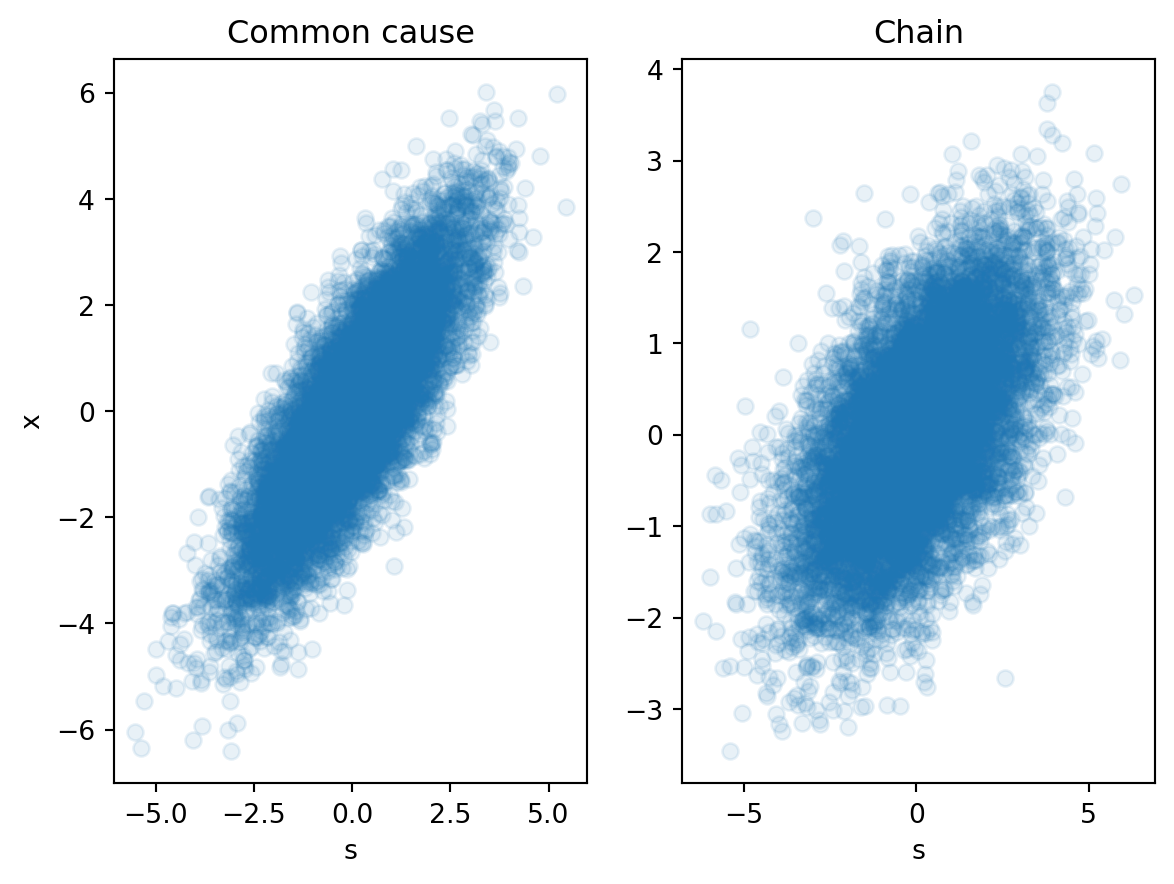
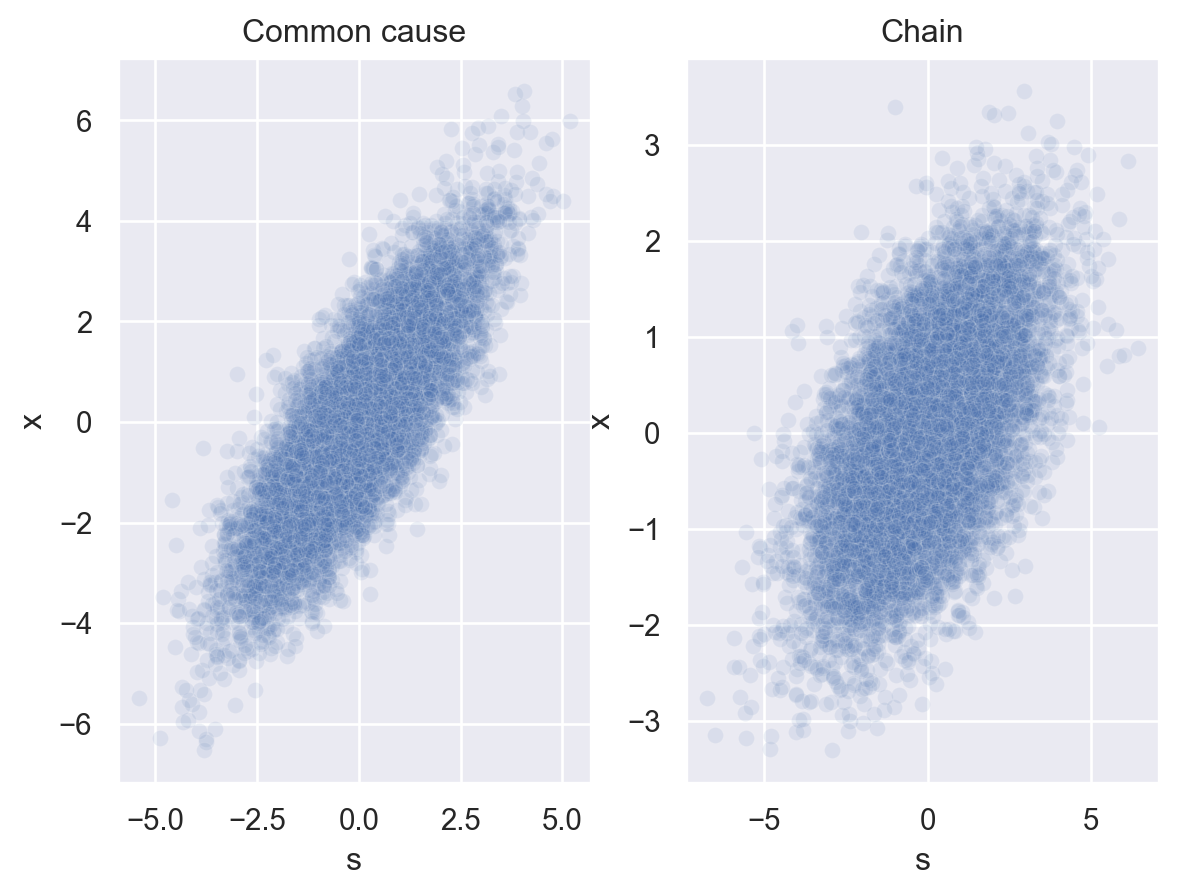
Revisions to Chapter 10

diff --git a/docs/10-causal-inference.html b/docs/10-causal-inference.html
@@ -246,7 +246,7 @@ gtag('config', 'G-HG2MG0W08W', { 'anonymize_ip': true});
 
 <header id="title-block-header" class="quarto-title-block default">
 <div class="quarto-title">
-<h1 class="title"><span class="chapter-number">10</span>&nbsp; <span class="chapter-title">Causal inference</span></h1>
+<h1 class="title"><span id="causal-inference" class="quarto-section-identifier"><span class="chapter-number">10</span>&nbsp; <span class="chapter-title">Causal inference</span></span></h1>
 </div>
 
 
@@ -264,11 +264,15 @@ gtag('config', 'G-HG2MG0W08W', { 'anonymize_ip': true});
 <p>The world is full of weird and interesting relationships. Like this one.</p>
 <div class="quarto-figure quarto-figure-center">
 <figure class="figure">
-<p><img src="images/10/maine_divorce_rate.png" class="img-fluid figure-img"></p>
-<figcaption class="figure-caption">Correlation between Maine divorce rates and per capita margarine consumption. Source: tylervigen.com.</figcaption>
+<p><img src="images/10/pikachu-puerto-rico.png" class="img-fluid figure-img" style="width:80.0%"></p>
+<figcaption class="figure-caption">Correlation between “surprised Pikachu” meme and number of middle school teachers in Puerto Rico. Source: tylervigen.com.</figcaption>
 </figure>
 </div>
-<p>Which of these weird relationships are <em>causal</em> relationships and how can we tell? (Does cutting back on margarine reduce your chances of divorce? Probably not.)</p>
+<p>Which of these weird relationships are <em>causal</em> relationships and how can we tell? Here’s an AI-generated explanation for why the rise in the meme’s popularity might be responsible for the uptick in teachers in Puerto Rico:</p>
+<blockquote class="blockquote">
+<p>As the ‘surprised Pikachu’ meme gained traction, it led to an uptick in internet usage. This surge in online activity put a higher demand on the telecommunication infrastructure in Puerto Rico. To meet this demand, more tech companies invested in the region, creating job opportunities. With the expanding job market, there was a need for additional educators to support the growing number of families relocating to Puerto Rico. As a result, the popularity of the meme indirectly contributed to an increase in the number of middle school teachers in Puerto Rico.</p>
+</blockquote>
+<p><img src="images/10/surprised pikachu.jpg" class="img-fluid" style="width:40.0%"></p>
 <p>Causal inference is, in fact, a major area of research in statistics and machine learning. But we’ll just focus on the question of how people decide what causes what.</p>
 <p>We’ll use a computational framework for making optimal probabilistic causal judgments called Bayesian networks, or <strong>Bayes nets</strong> for short. Comparing people’s judgments to Bayes net predictions allows us to see how optimal (or not) people are. Additionally, as we’ll see, Bayes nets are well suited for <em>intervention</em>, which is one way that people learn about causes.</p>
 <section id="bayes-nets" class="level2" data-number="10.1">
@@ -281,7 +285,7 @@ gtag('config', 'G-HG2MG0W08W', { 'anonymize_ip': true});
 <figcaption class="figure-caption">Bayes net representation of the coin bias problem.</figcaption>
 </figure>
 </div>
-<p>In Bayes nets, shaded notes represent variables that are known or observed, and unshaded nodes represent variables that are unknown. We know how many times the coin was flipped and came up heads, but we don’t directly know the bias <span class="math inline">\(\theta\)</span>.</p>
+<p>In Bayes nets, shaded nodes represent variables that are known or observed, and unshaded nodes represent variables that are unknown. We know how many times the coin was flipped and came up heads, but we don’t directly know the bias <span class="math inline">\(\theta\)</span>.</p>
 <p>We could extend this Bayes net to capture the <em>generalization</em> problem of predicting the outcome of the next coin flip <span class="math inline">\(x\)</span>.</p>
 <div class="quarto-figure quarto-figure-center">
 <figure class="figure">
@@ -341,20 +345,25 @@ gtag('config', 'G-HG2MG0W08W', { 'anonymize_ip': true});
 <p>Because <span class="math inline">\(z\)</span> represents an unknown variable, let’s plot just <span class="math inline">\(s\)</span> and <span class="math inline">\(x\)</span>.</p>
 <div class="cell" data-execution_count="2">
 <div class="sourceCode cell-code" id="cb2"><pre class="sourceCode python code-with-copy"><code class="sourceCode python"><span id="cb2-1"><a href="#cb2-1" aria-hidden="true" tabindex="-1"></a><span class="im">import</span> matplotlib.pyplot <span class="im">as</span> plt</span>
-<span id="cb2-2"><a href="#cb2-2" aria-hidden="true" tabindex="-1"></a></span>
-<span id="cb2-3"><a href="#cb2-3" aria-hidden="true" tabindex="-1"></a>fig, (ax1, ax2) <span class="op">=</span> plt.subplots(<span class="dv">1</span>,<span class="dv">2</span>)</span>
-<span id="cb2-4"><a href="#cb2-4" aria-hidden="true" tabindex="-1"></a>ax1.scatter(s_samples_cc, x_samples_cc, alpha <span class="op">=</span> <span class="fl">0.1</span>)</span>
-<span id="cb2-5"><a href="#cb2-5" aria-hidden="true" tabindex="-1"></a>ax1.set_xlabel(<span class="st">"s"</span>)</span>
-<span id="cb2-6"><a href="#cb2-6" aria-hidden="true" tabindex="-1"></a>ax1.set_ylabel(<span class="st">"x"</span>)</span>
-<span id="cb2-7"><a href="#cb2-7" aria-hidden="true" tabindex="-1"></a>ax1.set_title(<span class="st">"Common cause"</span>)</span>
-<span id="cb2-8"><a href="#cb2-8" aria-hidden="true" tabindex="-1"></a></span>
-<span id="cb2-9"><a href="#cb2-9" aria-hidden="true" tabindex="-1"></a>ax2.scatter(s_samples_chain, x_samples_chain, alpha <span class="op">=</span> <span class="fl">0.1</span>)</span>
-<span id="cb2-10"><a href="#cb2-10" aria-hidden="true" tabindex="-1"></a>ax2.set_xlabel(<span class="st">"s"</span>)</span>
-<span id="cb2-11"><a href="#cb2-11" aria-hidden="true" tabindex="-1"></a>ax2.set_title(<span class="st">"Chain"</span>)</span>
+<span id="cb2-2"><a href="#cb2-2" aria-hidden="true" tabindex="-1"></a><span class="im">import</span> seaborn <span class="im">as</span> sns</span>
+<span id="cb2-3"><a href="#cb2-3" aria-hidden="true" tabindex="-1"></a></span>
+<span id="cb2-4"><a href="#cb2-4" aria-hidden="true" tabindex="-1"></a>sns.set_theme()</span>
+<span id="cb2-5"><a href="#cb2-5" aria-hidden="true" tabindex="-1"></a></span>
+<span id="cb2-6"><a href="#cb2-6" aria-hidden="true" tabindex="-1"></a>fig, axes <span class="op">=</span> plt.subplots(<span class="dv">1</span>,<span class="dv">2</span>)</span>
+<span id="cb2-7"><a href="#cb2-7" aria-hidden="true" tabindex="-1"></a></span>
+<span id="cb2-8"><a href="#cb2-8" aria-hidden="true" tabindex="-1"></a>sns.scatterplot(x <span class="op">=</span> s_samples_cc, y <span class="op">=</span> x_samples_cc, alpha <span class="op">=</span> <span class="fl">0.1</span>, ax <span class="op">=</span> axes[<span class="dv">0</span>])</span>
+<span id="cb2-9"><a href="#cb2-9" aria-hidden="true" tabindex="-1"></a>axes[<span class="dv">0</span>].set_xlabel(<span class="st">"s"</span>)</span>
+<span id="cb2-10"><a href="#cb2-10" aria-hidden="true" tabindex="-1"></a>axes[<span class="dv">0</span>].set_ylabel(<span class="st">"x"</span>)</span>
+<span id="cb2-11"><a href="#cb2-11" aria-hidden="true" tabindex="-1"></a>axes[<span class="dv">0</span>].set_title(<span class="st">"Common cause"</span>)</span>
 <span id="cb2-12"><a href="#cb2-12" aria-hidden="true" tabindex="-1"></a></span>
-<span id="cb2-13"><a href="#cb2-13" aria-hidden="true" tabindex="-1"></a>plt.show()</span></code><button title="Copy to Clipboard" class="code-copy-button"><i class="bi"></i></button></pre></div>
+<span id="cb2-13"><a href="#cb2-13" aria-hidden="true" tabindex="-1"></a>sns.scatterplot(x <span class="op">=</span> s_samples_chain, y <span class="op">=</span> x_samples_chain, alpha <span class="op">=</span> <span class="fl">0.1</span>, ax <span class="op">=</span> axes[<span class="dv">1</span>])</span>
+<span id="cb2-14"><a href="#cb2-14" aria-hidden="true" tabindex="-1"></a>axes[<span class="dv">1</span>].set_xlabel(<span class="st">"s"</span>)</span>
+<span id="cb2-15"><a href="#cb2-15" aria-hidden="true" tabindex="-1"></a>axes[<span class="dv">1</span>].set_ylabel(<span class="st">"x"</span>)</span>
+<span id="cb2-16"><a href="#cb2-16" aria-hidden="true" tabindex="-1"></a>axes[<span class="dv">1</span>].set_title(<span class="st">"Chain"</span>)</span>
+<span id="cb2-17"><a href="#cb2-17" aria-hidden="true" tabindex="-1"></a></span>
+<span id="cb2-18"><a href="#cb2-18" aria-hidden="true" tabindex="-1"></a>plt.show()</span></code><button title="Copy to Clipboard" class="code-copy-button"><i class="bi"></i></button></pre></div>
 <div class="cell-output cell-output-display">
-<p><img src="10-causal-inference_files/figure-html/cell-3-output-1.png" width="587" height="442"></p>
+<p><img src="10-causal-inference_files/figure-html/cell-3-output-1.png" width="589" height="448"></p>
 </div>
 </div>
 <p>Clearly, the data isn’t identical in the two cases, but data generated by both Bayes nets results in a strong positive correlation between <span class="math inline">\(s\)</span> and <span class="math inline">\(x\)</span>.</p>
@@ -376,7 +385,7 @@ gtag('config', 'G-HG2MG0W08W', { 'anonymize_ip': true});
 <div class="quarto-figure quarto-figure-center">
 <figure class="figure">
 <p><img src="images/10/graph_surgery.png" class="img-fluid figure-img"></p>
-<figcaption class="figure-caption">Graph surgery applied to the common cause and chain Bayes nets. The invervention is indicated by the red arrow.</figcaption>
+<figcaption class="figure-caption">Graph surgery applied to the common cause and chain Bayes nets. The intervention is indicated by the red arrow.</figcaption>
 </figure>
 </div>
 <p>After intervening on sonin levels (<span class="math inline">\(s\)</span>), we remove the connection to <span class="math inline">\(s\)</span> in the common cause network, but no connections in the chain network. The resulting Bayes nets show why we should expect to see a resulting change in xanthan for the chain, but not the common cause.</p>
@@ -441,8 +450,8 @@ gtag('config', 'G-HG2MG0W08W', { 'anonymize_ip': true});
 <p>Maybe people reason about these problems by performing a kind of model selection between the two Bayes nets below.</p>
 <div class="quarto-figure quarto-figure-center">
 <figure class="figure">
-<p><img src="images/10/griffiths_tenenbaum_graphs.png" class="img-fluid figure-img"></p>
-<figcaption class="figure-caption">Causal inference as model selection. In one model, there is a connection from the potential cause to the effect; in the other, the two variables are unconnected. (Image from Griffiths &amp; Tenenbaum (2005).)</figcaption>
+<p><img src="images/10/griffiths_tenenbaum_graphs.png" class="img-fluid figure-img" style="width:75.0%"></p>
+<figcaption class="figure-caption">Causal inference as model selection. In one model, there is a connection from the potential cause to the effect; in the other, the two variables are unconnected. Image from Griffiths &amp; Tenenbaum (2005).</figcaption>
 </figure>
 </div>
 <p>These Bayes nets each have three variables: an effect <span class="math inline">\(E\)</span>, a cause <span class="math inline">\(C\)</span>, and a background cause <span class="math inline">\(B\)</span>. For our problem, the effect and cause refer to the gene and the drug. The inclusion of the background cause is to account for unknown factors that might cause the gene to be expressed without the drug.</p>
@@ -469,88 +478,91 @@ P(D | w_0, w_1, \text{Graph } 1) = \prod_{e,c} P(e|b^+,c; w_o, w_1)^{N(e,c)}
 <p>Here’s a function to compute this.</p>
 <div class="cell" data-execution_count="3">
 <div class="sourceCode cell-code" id="cb3"><pre class="sourceCode python code-with-copy"><code class="sourceCode python"><span id="cb3-1"><a href="#cb3-1" aria-hidden="true" tabindex="-1"></a><span class="kw">def</span> compute_likelihood(data, w0, w1, graph):</span>
-<span id="cb3-2"><a href="#cb3-2" aria-hidden="true" tabindex="-1"></a>  <span class="co">'''Returns likelihood of data for a given graph</span></span>
-<span id="cb3-3"><a href="#cb3-3" aria-hidden="true" tabindex="-1"></a><span class="co">     </span></span>
-<span id="cb3-4"><a href="#cb3-4" aria-hidden="true" tabindex="-1"></a><span class="co">     Parameters:</span></span>
-<span id="cb3-5"><a href="#cb3-5" aria-hidden="true" tabindex="-1"></a><span class="co">       data (list): observation counts in this order:</span></span>
-<span id="cb3-6"><a href="#cb3-6" aria-hidden="true" tabindex="-1"></a><span class="co">         N(c-,e-), N(c-,e+), N(c+,e-), N(c+,e+)</span></span>
-<span id="cb3-7"><a href="#cb3-7" aria-hidden="true" tabindex="-1"></a><span class="co">       w0 (float): probability of background cause producing effect</span></span>
-<span id="cb3-8"><a href="#cb3-8" aria-hidden="true" tabindex="-1"></a><span class="co">       w1 (float): probability of cause of interest producing effect</span></span>
-<span id="cb3-9"><a href="#cb3-9" aria-hidden="true" tabindex="-1"></a><span class="co">       graph (int): 0 (Graph 0) or 1 (Graph 1)</span></span>
-<span id="cb3-10"><a href="#cb3-10" aria-hidden="true" tabindex="-1"></a></span>
-<span id="cb3-11"><a href="#cb3-11" aria-hidden="true" tabindex="-1"></a><span class="co">     Returns:</span></span>
-<span id="cb3-12"><a href="#cb3-12" aria-hidden="true" tabindex="-1"></a><span class="co">       (float): probability of data</span></span>
-<span id="cb3-13"><a href="#cb3-13" aria-hidden="true" tabindex="-1"></a><span class="co">  '''</span></span>
-<span id="cb3-14"><a href="#cb3-14" aria-hidden="true" tabindex="-1"></a>  </span>
-<span id="cb3-15"><a href="#cb3-15" aria-hidden="true" tabindex="-1"></a>  <span class="cf">if</span> graph <span class="op">==</span> <span class="dv">0</span>:</span>
-<span id="cb3-16"><a href="#cb3-16" aria-hidden="true" tabindex="-1"></a>    <span class="co"># e-</span></span>
-<span id="cb3-17"><a href="#cb3-17" aria-hidden="true" tabindex="-1"></a>    p <span class="op">=</span> (<span class="dv">1</span><span class="op">-</span>w0)<span class="op">**</span>(data[<span class="dv">0</span>]<span class="op">+</span>data[<span class="dv">2</span>])</span>
-<span id="cb3-18"><a href="#cb3-18" aria-hidden="true" tabindex="-1"></a>    <span class="co"># e+</span></span>
-<span id="cb3-19"><a href="#cb3-19" aria-hidden="true" tabindex="-1"></a>    p <span class="op">=</span> p <span class="op">*</span> w0<span class="op">**</span>(data[<span class="dv">1</span>]<span class="op">+</span>data[<span class="dv">3</span>])</span>
-<span id="cb3-20"><a href="#cb3-20" aria-hidden="true" tabindex="-1"></a>  <span class="cf">elif</span> graph <span class="op">==</span> <span class="dv">1</span>:</span>
-<span id="cb3-21"><a href="#cb3-21" aria-hidden="true" tabindex="-1"></a>    <span class="co"># c-, e-</span></span>
-<span id="cb3-22"><a href="#cb3-22" aria-hidden="true" tabindex="-1"></a>    p <span class="op">=</span> (<span class="dv">1</span><span class="op">-</span>w0)<span class="op">**</span>data[<span class="dv">0</span>]</span>
-<span id="cb3-23"><a href="#cb3-23" aria-hidden="true" tabindex="-1"></a>    <span class="co"># c-, e+</span></span>
-<span id="cb3-24"><a href="#cb3-24" aria-hidden="true" tabindex="-1"></a>    p <span class="op">=</span> p <span class="op">*</span> w0<span class="op">**</span>data[<span class="dv">1</span>]</span>
-<span id="cb3-25"><a href="#cb3-25" aria-hidden="true" tabindex="-1"></a>    <span class="co"># c+, e-</span></span>
-<span id="cb3-26"><a href="#cb3-26" aria-hidden="true" tabindex="-1"></a>    p <span class="op">=</span> p <span class="op">*</span> (<span class="dv">1</span> <span class="op">-</span> (w0 <span class="op">+</span> w1 <span class="op">-</span> w0<span class="op">*</span>w1))<span class="op">**</span>data[<span class="dv">2</span>]</span>
-<span id="cb3-27"><a href="#cb3-27" aria-hidden="true" tabindex="-1"></a>    <span class="co"># c+, e+</span></span>
-<span id="cb3-28"><a href="#cb3-28" aria-hidden="true" tabindex="-1"></a>    p <span class="op">=</span> p <span class="op">*</span> (w0 <span class="op">+</span> w1 <span class="op">-</span> w0<span class="op">*</span>w1)<span class="op">**</span>data[<span class="dv">3</span>]</span>
-<span id="cb3-29"><a href="#cb3-29" aria-hidden="true" tabindex="-1"></a>  <span class="cf">else</span>:</span>
-<span id="cb3-30"><a href="#cb3-30" aria-hidden="true" tabindex="-1"></a>    <span class="co"># error!</span></span>
-<span id="cb3-31"><a href="#cb3-31" aria-hidden="true" tabindex="-1"></a>    <span class="cf">return</span>(<span class="dv">0</span>)</span>
-<span id="cb3-32"><a href="#cb3-32" aria-hidden="true" tabindex="-1"></a>  </span>
-<span id="cb3-33"><a href="#cb3-33" aria-hidden="true" tabindex="-1"></a>  <span class="cf">return</span>(p)</span></code><button title="Copy to Clipboard" class="code-copy-button"><i class="bi"></i></button></pre></div>
+<span id="cb3-2"><a href="#cb3-2" aria-hidden="true" tabindex="-1"></a>  <span class="co">'''</span></span>
+<span id="cb3-3"><a href="#cb3-3" aria-hidden="true" tabindex="-1"></a><span class="co">  Computes likelihood of data for a given graph</span></span>
+<span id="cb3-4"><a href="#cb3-4" aria-hidden="true" tabindex="-1"></a><span class="co">     </span></span>
+<span id="cb3-5"><a href="#cb3-5" aria-hidden="true" tabindex="-1"></a><span class="co">  Args:</span></span>
+<span id="cb3-6"><a href="#cb3-6" aria-hidden="true" tabindex="-1"></a><span class="co">    data (list): observation counts in this order:</span></span>
+<span id="cb3-7"><a href="#cb3-7" aria-hidden="true" tabindex="-1"></a><span class="co">      N(c-,e-), N(c-,e+), N(c+,e-), N(c+,e+)</span></span>
+<span id="cb3-8"><a href="#cb3-8" aria-hidden="true" tabindex="-1"></a><span class="co">    w0 (float): probability of background cause producing effect</span></span>
+<span id="cb3-9"><a href="#cb3-9" aria-hidden="true" tabindex="-1"></a><span class="co">    w1 (float): probability of cause of interest producing effect</span></span>
+<span id="cb3-10"><a href="#cb3-10" aria-hidden="true" tabindex="-1"></a><span class="co">      graph (int): 0 (Graph 0) or 1 (Graph 1)</span></span>
+<span id="cb3-11"><a href="#cb3-11" aria-hidden="true" tabindex="-1"></a></span>
+<span id="cb3-12"><a href="#cb3-12" aria-hidden="true" tabindex="-1"></a><span class="co">    Returns:</span></span>
+<span id="cb3-13"><a href="#cb3-13" aria-hidden="true" tabindex="-1"></a><span class="co">      (float): probability of data </span></span>
+<span id="cb3-14"><a href="#cb3-14" aria-hidden="true" tabindex="-1"></a><span class="co">  '''</span></span>
+<span id="cb3-15"><a href="#cb3-15" aria-hidden="true" tabindex="-1"></a>  </span>
+<span id="cb3-16"><a href="#cb3-16" aria-hidden="true" tabindex="-1"></a>  <span class="cf">if</span> graph <span class="op">==</span> <span class="dv">0</span>:</span>
+<span id="cb3-17"><a href="#cb3-17" aria-hidden="true" tabindex="-1"></a>    <span class="co"># e-</span></span>
+<span id="cb3-18"><a href="#cb3-18" aria-hidden="true" tabindex="-1"></a>    p <span class="op">=</span> (<span class="dv">1</span><span class="op">-</span>w0)<span class="op">**</span>(data[<span class="dv">0</span>]<span class="op">+</span>data[<span class="dv">2</span>])</span>
+<span id="cb3-19"><a href="#cb3-19" aria-hidden="true" tabindex="-1"></a>    <span class="co"># e+</span></span>
+<span id="cb3-20"><a href="#cb3-20" aria-hidden="true" tabindex="-1"></a>    p <span class="op">=</span> p <span class="op">*</span> w0<span class="op">**</span>(data[<span class="dv">1</span>]<span class="op">+</span>data[<span class="dv">3</span>])</span>
+<span id="cb3-21"><a href="#cb3-21" aria-hidden="true" tabindex="-1"></a>  <span class="cf">elif</span> graph <span class="op">==</span> <span class="dv">1</span>:</span>
+<span id="cb3-22"><a href="#cb3-22" aria-hidden="true" tabindex="-1"></a>    <span class="co"># c-, e-</span></span>
+<span id="cb3-23"><a href="#cb3-23" aria-hidden="true" tabindex="-1"></a>    p <span class="op">=</span> (<span class="dv">1</span><span class="op">-</span>w0)<span class="op">**</span>data[<span class="dv">0</span>]</span>
+<span id="cb3-24"><a href="#cb3-24" aria-hidden="true" tabindex="-1"></a>    <span class="co"># c-, e+</span></span>
+<span id="cb3-25"><a href="#cb3-25" aria-hidden="true" tabindex="-1"></a>    p <span class="op">=</span> p <span class="op">*</span> w0<span class="op">**</span>data[<span class="dv">1</span>]</span>
+<span id="cb3-26"><a href="#cb3-26" aria-hidden="true" tabindex="-1"></a>    <span class="co"># c+, e-</span></span>
+<span id="cb3-27"><a href="#cb3-27" aria-hidden="true" tabindex="-1"></a>    p <span class="op">=</span> p <span class="op">*</span> (<span class="dv">1</span> <span class="op">-</span> (w0 <span class="op">+</span> w1 <span class="op">-</span> w0<span class="op">*</span>w1))<span class="op">**</span>data[<span class="dv">2</span>]</span>
+<span id="cb3-28"><a href="#cb3-28" aria-hidden="true" tabindex="-1"></a>    <span class="co"># c+, e+</span></span>
+<span id="cb3-29"><a href="#cb3-29" aria-hidden="true" tabindex="-1"></a>    p <span class="op">=</span> p <span class="op">*</span> (w0 <span class="op">+</span> w1 <span class="op">-</span> w0<span class="op">*</span>w1)<span class="op">**</span>data[<span class="dv">3</span>]</span>
+<span id="cb3-30"><a href="#cb3-30" aria-hidden="true" tabindex="-1"></a>  <span class="cf">else</span>:</span>
+<span id="cb3-31"><a href="#cb3-31" aria-hidden="true" tabindex="-1"></a>    <span class="co"># error!</span></span>
+<span id="cb3-32"><a href="#cb3-32" aria-hidden="true" tabindex="-1"></a>    <span class="cf">return</span>(<span class="dv">0</span>)</span>
+<span id="cb3-33"><a href="#cb3-33" aria-hidden="true" tabindex="-1"></a>  </span>
+<span id="cb3-34"><a href="#cb3-34" aria-hidden="true" tabindex="-1"></a>  <span class="cf">return</span>(p)</span></code><button title="Copy to Clipboard" class="code-copy-button"><i class="bi"></i></button></pre></div>
 </div>
 <p>Causal support doesn’t actually depend directly on the parameters <span class="math inline">\(w_0\)</span> and <span class="math inline">\(w_1\)</span>. The reason is that we ultimately don’t care what the values of these parameters are because we just want to draw an inference at a higher level about the best-fitting Bayes net.</p>
 <p>Mathematically speaking, <span class="math inline">\(w_0\)</span> and <span class="math inline">\(w_1\)</span> are averaged out of the model, an idea we first saw in <a href="03-generalization.html#generalizing">Chapter 3</a>. We can accomplish this using Monte Carlo approximation, introduced in <a href="08-social-cognition.html#monte-carlo">Chapter 8</a>.</p>
 <div class="cell" data-execution_count="4">
 <div class="sourceCode cell-code" id="cb4"><pre class="sourceCode python code-with-copy"><code class="sourceCode python"><span id="cb4-1"><a href="#cb4-1" aria-hidden="true" tabindex="-1"></a><span class="kw">def</span> estimate_likelihood(graph_number, data): </span>
-<span id="cb4-2"><a href="#cb4-2" aria-hidden="true" tabindex="-1"></a>  <span class="co">'''Returns an estimate of the probability of observing the data</span></span>
-<span id="cb4-3"><a href="#cb4-3" aria-hidden="true" tabindex="-1"></a><span class="co">     under the specified graph using Monte Carlo estimation.</span></span>
-<span id="cb4-4"><a href="#cb4-4" aria-hidden="true" tabindex="-1"></a><span class="co">     </span></span>
-<span id="cb4-5"><a href="#cb4-5" aria-hidden="true" tabindex="-1"></a><span class="co">     Parameters:</span></span>
-<span id="cb4-6"><a href="#cb4-6" aria-hidden="true" tabindex="-1"></a><span class="co">       graph_number (int): either 0 (Graph 0) or 1 (Graph 1)</span></span>
-<span id="cb4-7"><a href="#cb4-7" aria-hidden="true" tabindex="-1"></a><span class="co">       data (list): observation counts in this order:</span></span>
-<span id="cb4-8"><a href="#cb4-8" aria-hidden="true" tabindex="-1"></a><span class="co">         N(c-,e-), N(c-,e+), N(c+,e-), N(c+,e+)</span></span>
-<span id="cb4-9"><a href="#cb4-9" aria-hidden="true" tabindex="-1"></a></span>
-<span id="cb4-10"><a href="#cb4-10" aria-hidden="true" tabindex="-1"></a><span class="co">     Returns:</span></span>
-<span id="cb4-11"><a href="#cb4-11" aria-hidden="true" tabindex="-1"></a><span class="co">       (float): probability of observing data</span></span>
-<span id="cb4-12"><a href="#cb4-12" aria-hidden="true" tabindex="-1"></a><span class="co">  '''</span></span>
-<span id="cb4-13"><a href="#cb4-13" aria-hidden="true" tabindex="-1"></a>  <span class="im">from</span> numpy.random <span class="im">import</span> default_rng</span>
-<span id="cb4-14"><a href="#cb4-14" aria-hidden="true" tabindex="-1"></a>  </span>
-<span id="cb4-15"><a href="#cb4-15" aria-hidden="true" tabindex="-1"></a>  n_samples <span class="op">=</span> <span class="dv">5000</span></span>
-<span id="cb4-16"><a href="#cb4-16" aria-hidden="true" tabindex="-1"></a>  rng <span class="op">=</span> default_rng(<span class="dv">2022</span>)</span>
-<span id="cb4-17"><a href="#cb4-17" aria-hidden="true" tabindex="-1"></a>  mc_samples <span class="op">=</span> np.zeros(n_samples)</span>
-<span id="cb4-18"><a href="#cb4-18" aria-hidden="true" tabindex="-1"></a>  </span>
-<span id="cb4-19"><a href="#cb4-19" aria-hidden="true" tabindex="-1"></a>  <span class="cf">for</span> i <span class="kw">in</span> <span class="bu">range</span>(n_samples):</span>
-<span id="cb4-20"><a href="#cb4-20" aria-hidden="true" tabindex="-1"></a>    <span class="co"># Sample values for w0 and w1 from a uniform distribution</span></span>
-<span id="cb4-21"><a href="#cb4-21" aria-hidden="true" tabindex="-1"></a>    w0 <span class="op">=</span> rng.random()</span>
-<span id="cb4-22"><a href="#cb4-22" aria-hidden="true" tabindex="-1"></a>    w1 <span class="op">=</span> rng.random()</span>
-<span id="cb4-23"><a href="#cb4-23" aria-hidden="true" tabindex="-1"></a>    </span>
-<span id="cb4-24"><a href="#cb4-24" aria-hidden="true" tabindex="-1"></a>    mc_samples[i] <span class="op">=</span> compute_likelihood(data, w0, w1, graph_number)</span>
-<span id="cb4-25"><a href="#cb4-25" aria-hidden="true" tabindex="-1"></a>  </span>
-<span id="cb4-26"><a href="#cb4-26" aria-hidden="true" tabindex="-1"></a>  <span class="cf">return</span>(<span class="dv">1</span><span class="op">/</span>n_samples <span class="op">*</span> np.<span class="bu">sum</span>(mc_samples))</span></code><button title="Copy to Clipboard" class="code-copy-button"><i class="bi"></i></button></pre></div>
+<span id="cb4-2"><a href="#cb4-2" aria-hidden="true" tabindex="-1"></a>  <span class="co">'''</span></span>
+<span id="cb4-3"><a href="#cb4-3" aria-hidden="true" tabindex="-1"></a><span class="co">  Returns an estimate of the probability of observing the data</span></span>
+<span id="cb4-4"><a href="#cb4-4" aria-hidden="true" tabindex="-1"></a><span class="co">    under the specified graph using Monte Carlo estimation.</span></span>
+<span id="cb4-5"><a href="#cb4-5" aria-hidden="true" tabindex="-1"></a><span class="co">     </span></span>
+<span id="cb4-6"><a href="#cb4-6" aria-hidden="true" tabindex="-1"></a><span class="co">  Args:</span></span>
+<span id="cb4-7"><a href="#cb4-7" aria-hidden="true" tabindex="-1"></a><span class="co">    graph_number (int): either 0 (Graph 0) or 1 (Graph 1)</span></span>
+<span id="cb4-8"><a href="#cb4-8" aria-hidden="true" tabindex="-1"></a><span class="co">    data (list): observation counts in this order:</span></span>
+<span id="cb4-9"><a href="#cb4-9" aria-hidden="true" tabindex="-1"></a><span class="co">      N(c-,e-), N(c-,e+), N(c+,e-), N(c+,e+)</span></span>
+<span id="cb4-10"><a href="#cb4-10" aria-hidden="true" tabindex="-1"></a></span>
+<span id="cb4-11"><a href="#cb4-11" aria-hidden="true" tabindex="-1"></a><span class="co">  Returns:</span></span>
+<span id="cb4-12"><a href="#cb4-12" aria-hidden="true" tabindex="-1"></a><span class="co">    (float): probability of observing data</span></span>
+<span id="cb4-13"><a href="#cb4-13" aria-hidden="true" tabindex="-1"></a><span class="co">  '''</span></span>
+<span id="cb4-14"><a href="#cb4-14" aria-hidden="true" tabindex="-1"></a>  <span class="im">from</span> numpy.random <span class="im">import</span> default_rng</span>
+<span id="cb4-15"><a href="#cb4-15" aria-hidden="true" tabindex="-1"></a>  </span>
+<span id="cb4-16"><a href="#cb4-16" aria-hidden="true" tabindex="-1"></a>  n_samples <span class="op">=</span> <span class="dv">5000</span></span>
+<span id="cb4-17"><a href="#cb4-17" aria-hidden="true" tabindex="-1"></a>  rng <span class="op">=</span> default_rng(<span class="dv">2022</span>)</span>
+<span id="cb4-18"><a href="#cb4-18" aria-hidden="true" tabindex="-1"></a>  mc_samples <span class="op">=</span> np.zeros(n_samples)</span>
+<span id="cb4-19"><a href="#cb4-19" aria-hidden="true" tabindex="-1"></a>  </span>
+<span id="cb4-20"><a href="#cb4-20" aria-hidden="true" tabindex="-1"></a>  <span class="cf">for</span> i <span class="kw">in</span> <span class="bu">range</span>(n_samples):</span>
+<span id="cb4-21"><a href="#cb4-21" aria-hidden="true" tabindex="-1"></a>    <span class="co"># Sample values for w0 and w1 from a uniform distribution</span></span>
+<span id="cb4-22"><a href="#cb4-22" aria-hidden="true" tabindex="-1"></a>    w0 <span class="op">=</span> rng.random()</span>
+<span id="cb4-23"><a href="#cb4-23" aria-hidden="true" tabindex="-1"></a>    w1 <span class="op">=</span> rng.random()</span>
+<span id="cb4-24"><a href="#cb4-24" aria-hidden="true" tabindex="-1"></a>    </span>
+<span id="cb4-25"><a href="#cb4-25" aria-hidden="true" tabindex="-1"></a>    mc_samples[i] <span class="op">=</span> compute_likelihood(data, w0, w1, graph_number)</span>
+<span id="cb4-26"><a href="#cb4-26" aria-hidden="true" tabindex="-1"></a>  </span>
+<span id="cb4-27"><a href="#cb4-27" aria-hidden="true" tabindex="-1"></a>  <span class="cf">return</span>(<span class="dv">1</span><span class="op">/</span>n_samples <span class="op">*</span> np.<span class="bu">sum</span>(mc_samples))</span></code><button title="Copy to Clipboard" class="code-copy-button"><i class="bi"></i></button></pre></div>
 </div>
 <p>Finally, let’s put it all together by writing a function that computes causal support.</p>
 <div class="cell" data-execution_count="5">
 <div class="sourceCode cell-code" id="cb5"><pre class="sourceCode python code-with-copy"><code class="sourceCode python"><span id="cb5-1"><a href="#cb5-1" aria-hidden="true" tabindex="-1"></a><span class="kw">def</span> causal_support(data):</span>
-<span id="cb5-2"><a href="#cb5-2" aria-hidden="true" tabindex="-1"></a>  <span class="co">'''Returns a causal support value for a given data set.</span></span>
-<span id="cb5-3"><a href="#cb5-3" aria-hidden="true" tabindex="-1"></a><span class="co">     Causal support is a measure of how strongly a data</span></span>
-<span id="cb5-4"><a href="#cb5-4" aria-hidden="true" tabindex="-1"></a><span class="co">     set indicates that there is evidence for a causal</span></span>
-<span id="cb5-5"><a href="#cb5-5" aria-hidden="true" tabindex="-1"></a><span class="co">     effect.</span></span>
-<span id="cb5-6"><a href="#cb5-6" aria-hidden="true" tabindex="-1"></a><span class="co">     </span></span>
-<span id="cb5-7"><a href="#cb5-7" aria-hidden="true" tabindex="-1"></a><span class="co">     Parameters:</span></span>
-<span id="cb5-8"><a href="#cb5-8" aria-hidden="true" tabindex="-1"></a><span class="co">       data (list): observation counts in this order:</span></span>
-<span id="cb5-9"><a href="#cb5-9" aria-hidden="true" tabindex="-1"></a><span class="co">         N(c-,e-), N(c-,e+), N(c+,e-), N(c+,e+)</span></span>
-<span id="cb5-10"><a href="#cb5-10" aria-hidden="true" tabindex="-1"></a></span>
-<span id="cb5-11"><a href="#cb5-11" aria-hidden="true" tabindex="-1"></a><span class="co">     Returns:</span></span>
-<span id="cb5-12"><a href="#cb5-12" aria-hidden="true" tabindex="-1"></a><span class="co">       (float): strength of evidence for causal relationship</span></span>
-<span id="cb5-13"><a href="#cb5-13" aria-hidden="true" tabindex="-1"></a><span class="co">  '''</span></span>
-<span id="cb5-14"><a href="#cb5-14" aria-hidden="true" tabindex="-1"></a>  <span class="im">import</span> numpy <span class="im">as</span> np</span>
-<span id="cb5-15"><a href="#cb5-15" aria-hidden="true" tabindex="-1"></a>  </span>
-<span id="cb5-16"><a href="#cb5-16" aria-hidden="true" tabindex="-1"></a>  <span class="cf">return</span> (np.log(estimate_likelihood(<span class="dv">1</span>,data<span class="op">=</span>data) <span class="op">/</span> </span>
-<span id="cb5-17"><a href="#cb5-17" aria-hidden="true" tabindex="-1"></a>                 estimate_likelihood(<span class="dv">0</span>,data<span class="op">=</span>data)))</span></code><button title="Copy to Clipboard" class="code-copy-button"><i class="bi"></i></button></pre></div>
+<span id="cb5-2"><a href="#cb5-2" aria-hidden="true" tabindex="-1"></a>  <span class="co">'''</span></span>
+<span id="cb5-3"><a href="#cb5-3" aria-hidden="true" tabindex="-1"></a><span class="co">  Returns a causal support value for a given data set.</span></span>
+<span id="cb5-4"><a href="#cb5-4" aria-hidden="true" tabindex="-1"></a><span class="co">  Causal support is a measure of how strongly a data</span></span>
+<span id="cb5-5"><a href="#cb5-5" aria-hidden="true" tabindex="-1"></a><span class="co">  set indicates that there is evidence for a causal</span></span>
+<span id="cb5-6"><a href="#cb5-6" aria-hidden="true" tabindex="-1"></a><span class="co">  effect.</span></span>
+<span id="cb5-7"><a href="#cb5-7" aria-hidden="true" tabindex="-1"></a><span class="co">     </span></span>
+<span id="cb5-8"><a href="#cb5-8" aria-hidden="true" tabindex="-1"></a><span class="co">  Parameters:</span></span>
+<span id="cb5-9"><a href="#cb5-9" aria-hidden="true" tabindex="-1"></a><span class="co">   data (list): observation counts in this order:</span></span>
+<span id="cb5-10"><a href="#cb5-10" aria-hidden="true" tabindex="-1"></a><span class="co">    N(c-,e-), N(c-,e+), N(c+,e-), N(c+,e+)</span></span>
+<span id="cb5-11"><a href="#cb5-11" aria-hidden="true" tabindex="-1"></a></span>
+<span id="cb5-12"><a href="#cb5-12" aria-hidden="true" tabindex="-1"></a><span class="co">  Returns:</span></span>
+<span id="cb5-13"><a href="#cb5-13" aria-hidden="true" tabindex="-1"></a><span class="co">    (float): strength of evidence for causal relationship</span></span>
+<span id="cb5-14"><a href="#cb5-14" aria-hidden="true" tabindex="-1"></a><span class="co">  '''</span></span>
+<span id="cb5-15"><a href="#cb5-15" aria-hidden="true" tabindex="-1"></a>  <span class="im">import</span> numpy <span class="im">as</span> np</span>
+<span id="cb5-16"><a href="#cb5-16" aria-hidden="true" tabindex="-1"></a>  </span>
+<span id="cb5-17"><a href="#cb5-17" aria-hidden="true" tabindex="-1"></a>  <span class="cf">return</span> (np.log(estimate_likelihood(<span class="dv">1</span>,data<span class="op">=</span>data) <span class="op">/</span> </span>
+<span id="cb5-18"><a href="#cb5-18" aria-hidden="true" tabindex="-1"></a>                 estimate_likelihood(<span class="dv">0</span>,data<span class="op">=</span>data)))</span></code><button title="Copy to Clipboard" class="code-copy-button"><i class="bi"></i></button></pre></div>
 </div>
 <p>Now let’s see what the model predicts for the <a href="#structure-strength">four cases we considered earlier</a>.</p>
 <div class="cell" data-execution_count="6">
@@ -561,13 +573,13 @@ P(D | w_0, w_1, \text{Graph } 1) = \prod_{e,c} P(e|b^+,c; w_o, w_1)^{N(e,c)}
 <span id="cb6-5"><a href="#cb6-5" aria-hidden="true" tabindex="-1"></a>                              </span>
 <span id="cb6-6"><a href="#cb6-6" aria-hidden="true" tabindex="-1"></a>labels <span class="op">=</span> [<span class="st">"6/8, 8/8"</span>, <span class="st">"4/8, 6/8"</span>, <span class="st">"2/8, 4/8"</span>, <span class="st">"0/8, 2/8"</span>]</span>
 <span id="cb6-7"><a href="#cb6-7" aria-hidden="true" tabindex="-1"></a>fig, ax <span class="op">=</span> plt.subplots()</span>
-<span id="cb6-8"><a href="#cb6-8" aria-hidden="true" tabindex="-1"></a>ax.bar(labels, causal_support_predictions)</span>
+<span id="cb6-8"><a href="#cb6-8" aria-hidden="true" tabindex="-1"></a>sns.barplot(x<span class="op">=</span>labels, y<span class="op">=</span>causal_support_predictions)</span>
 <span id="cb6-9"><a href="#cb6-9" aria-hidden="true" tabindex="-1"></a>ax.set_xlabel(<span class="st">"Data"</span>)</span>
 <span id="cb6-10"><a href="#cb6-10" aria-hidden="true" tabindex="-1"></a>ax.set_ylabel(<span class="st">"Model prediction"</span>)</span>
 <span id="cb6-11"><a href="#cb6-11" aria-hidden="true" tabindex="-1"></a></span>
 <span id="cb6-12"><a href="#cb6-12" aria-hidden="true" tabindex="-1"></a>plt.show()</span></code><button title="Copy to Clipboard" class="code-copy-button"><i class="bi"></i></button></pre></div>
 <div class="cell-output cell-output-display">
-<p><img src="10-causal-inference_files/figure-html/cell-7-output-1.png" width="589" height="422"></p>
+<p><img src="10-causal-inference_files/figure-html/cell-7-output-1.png" width="593" height="428"></p>
 </div>
 </div>
 <p>The labels on the x-axis indicate the control condition counts, followed by the experimental condition counts.</p>

diff --git a/docs/03-generalization.html b/docs/03-generalization.html
@@ -400,7 +400,7 @@ Horses have blicketitis</code></pre>
 <p><span class="math display">\[
 P(h) \propto \frac{1}{\phi^k}
 \]</span> where <span class="math inline">\(k\)</span> is the number of clusters in <span class="math inline">\(h\)</span>. <span class="math inline">\(\phi\)</span> is a parameter that we can choose. As long as <span class="math inline">\(\phi &gt; 1\)</span>, <span class="math inline">\(P(h)\)</span> will be smaller for hypotheses consisting of more clusters. This has the effect of assigning higher weight to “simpler” hypotheses.</p>
-<p>Once again, we will make the <a href="06-sampling-assumptions.html#sampling-assumptions">strong sampling assumption</a> for the likelihood. This time, <span class="math inline">\(|h|\)</span> is the number of animal species in <span class="math inline">\(h\)</span> and <span class="math inline">\(n\)</span> is the number of examples in the premises.</p>
+<p>Once again, we will make the <a href="#sampling-assumptions">strong sampling assumption</a> for the likelihood. This time, <span class="math inline">\(|h|\)</span> is the number of animal species in <span class="math inline">\(h\)</span> and <span class="math inline">\(n\)</span> is the number of examples in the premises.</p>
 <p>A consequence of both of these assumptions is something like <a href="https://en.wikipedia.org/wiki/Occam%27s_razor">Occam’s razor</a> which says that the simplest explanation should be preferred. This model will assign 0 likelihood to any hypotheses that don’t include <span class="math inline">\(X\)</span>, thus narrowing the hypothesis space down to just hypotheses that are possible. Of those, it will favor hypotheses with fewer clusters and with fewer animals. In other words, it will favor the simplest hypotheses that are consistent with the examples we’ve seen.</p>
 </section>
 <section id="try-out-the-model-yourself" class="level3" data-number="3.3.3">
